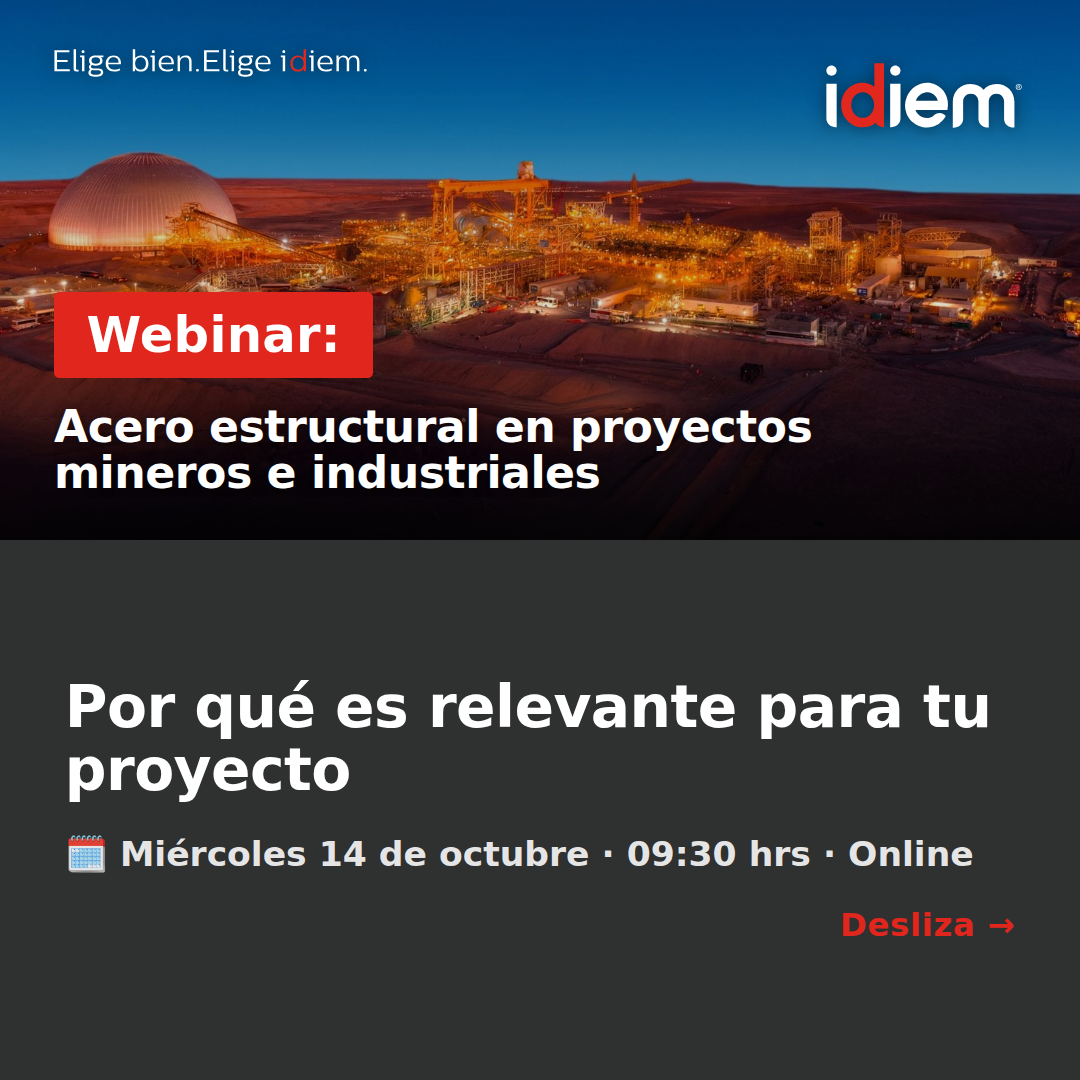
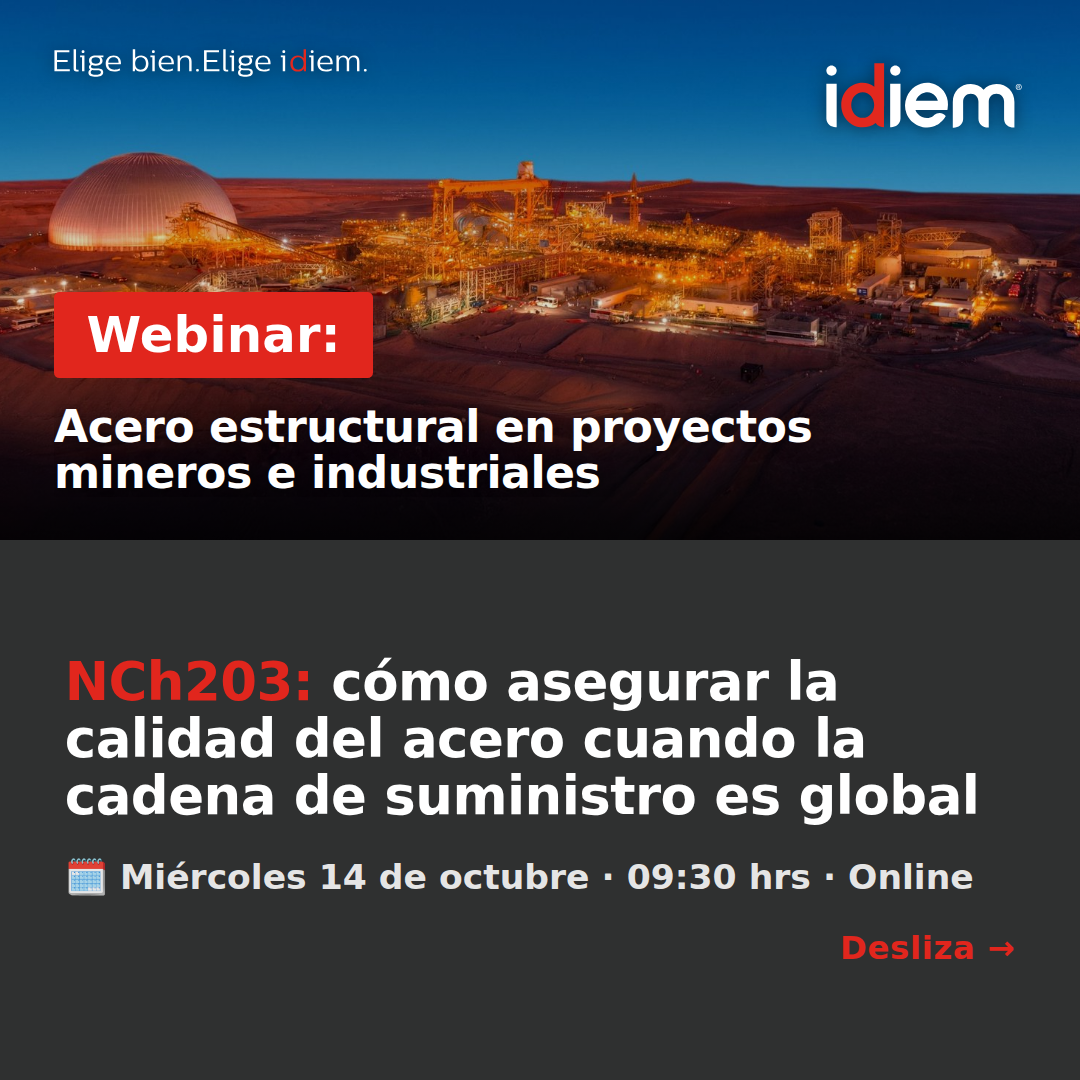
webinar: ajustes MKT a posts 2 y 4 + decisiones sobre la estrategia editorial
Posts 1, 3 y 5 (ya programados en LinkedIn) sin cambios de gráfica.
- Post 2 (carrusel): portada con llamado preciso ('NCh203: cómo asegurar la
  calidad del acero cuando la cadena de suministro es global'); cierre con el
  bloque de David en las mismas proporciones que el post 1 (CTA del ancho de
  la tarjeta de fecha).
- Post 4: variante 'manana' del banner ('⏰ ¡Mañana!', estilo post 5).
- Copies definitivos de MKT (posts 1-4) como fuente de verdad en
  webinars/acero_copies.json; notas y marcas de regeneración limpiadas.
- Decisiones MKT: límites de diversidad aprobados; posts de evento exentos
  del tope de 900 caracteres; memoria 09 = solo reglas/correcciones, el resto
  se deriva del consolidado mensual.

Claude-Session: https://claude.ai/code/session_01YXX97X1ubxabdERpL8XC8c

Changed region(s): [[0.0611, 0.6111, 0.9472, 0.8861]]

diff --git a/design_system/gen_webinar_workstation.py b/design_system/gen_webinar_workstation.py
@@ -108,6 +108,12 @@ COPY = {
   "#IDIEM #AceroEstructural #NCh203 #Minería #Industria #Webinar"),
 }
 
+# Copies definitivos editados por MKT en la workstation (30-09-2026): sobrescriben los defaults.
+_COPIES_FILE = ROOT / "design_system" / "webinars" / "acero_copies.json"
+if _COPIES_FILE.exists():
+    for _k, _v in json.loads(_COPIES_FILE.read_text(encoding="utf-8"))["copies"].items():
+        COPY[int(_k)] = _v
+
 # seq -> (fecha_label, objetivo, tipo, [slides], link(nombre,url), sched(date,time), imagen_traza, historial[(fecha,txt)])
 POSTS = {
  1: {"fecha": "1 oct", "obj": "Apertura de inscripciones", "tipo": "STATIC", "slides": ["inv"],
@@ -119,17 +125,19 @@ POSTS = {
  2: {"fecha": "5 oct", "obj": "Relevancia + temática", "tipo": "CARRUSEL", "slides": ["car1", "car2", "car3", "car4"],
      "sched": ("2026-10-05", "09:00"),
      "imagen": "Banner + láminas de contenido (portada · contexto NCh203 · temario · cierre)",
-     "hist": [(APPLIED, "Carrusel de 4 láminas creado para la serie del webinar."),
+     "hist": [(APPLIED, "Ajuste MKT: portada con llamado preciso (NCh203 y cadena de suministro global); cierre con David en las mismas proporciones que el post 1; copy editado por MKT."),
+              (APPLIED, "Carrusel de 4 láminas creado para la serie del webinar."),
               (APPLIED, "Contexto NCh203 (cadena de suministro global) + temario de 5 puntos."),
               (APPLIED, "Cierre con relator y CTA de inscripción.")]},
  3: {"fecha": "8 oct", "obj": "Recordatorio · trazabilidad", "tipo": "STATIC", "slides": ["inv"],
      "sched": ("2026-10-08", "09:00"),
      "imagen": "Banner de serie (provisto por MKT) · relator David Silva",
      "hist": [(APPLIED, "Recordatorio: misma gráfica de invitación, copy con foco en trazabilidad/brechas.")]},
- 4: {"fecha": "13 oct", "obj": "Víspera del evento", "tipo": "STATIC", "slides": ["inv"],
+ 4: {"fecha": "13 oct", "obj": "Víspera del evento", "tipo": "STATIC", "slides": ["manana"],
      "sched": ("2026-10-13", "09:00"),
      "imagen": "Banner de serie (provisto por MKT) · relator David Silva",
-     "hist": [(APPLIED, "Víspera: misma gráfica de invitación, copy '⏰ mañana' + últimas inscripciones.")]},
+     "hist": [(APPLIED, "Ajuste MKT: banner con '⏰ ¡Mañana!' en vez de 'Webinar:' (estilo post 5) + copy editado por MKT."),
+              (APPLIED, "Víspera: gráfica de invitación, copy '⏰ mañana' + últimas inscripciones.")]},
  5: {"fecha": "14 oct", "obj": "Día del evento · ingreso", "tipo": "STATIC", "slides": ["live"],
      "sched": ("2026-10-14", "08:00"),
      "imagen": "Banner · variante día del evento (ingreso por Zoom)",

diff --git a/design_system/gen_webinar_carousel.py b/design_system/gen_webinar_carousel.py
@@ -52,12 +52,13 @@ CONTENT_CSS = r"""
 
 /* portada / cierre reusan .wcard del banner; extras: */
 .ppanel{flex-direction:column;align-items:flex-start;justify-content:center;gap:3cqw;padding:0 6cqw}
-.pp-lead{font-size:5.4cqw;font-weight:800;line-height:1.08;letter-spacing:-.01em;color:#fff;max-width:86cqw}
+.pp-lead{font-size:4.9cqw;font-weight:800;line-height:1.08;letter-spacing:-.01em;color:#fff;max-width:86cqw}
+.pp-red{color:var(--red)}
 .pp-date{font-size:3.2cqw;font-weight:600;color:rgba(255,255,255,.9)}
 .pp-swipe{align-self:flex-end;font-size:3cqw;font-weight:800;color:var(--red);letter-spacing:.02em}
-.cierre-cta{display:flex;flex-direction:column;align-items:center;gap:2.6cqw}
-.cta-pill{background:var(--red);color:#fff;font-weight:800;font-size:3.5cqw;padding:2cqw 5cqw;border-radius:100px}
-.cta-note{font-size:2.7cqw;font-weight:600;color:rgba(255,255,255,.86);text-align:center;max-width:70cqw}
+.cierre-cta{flex:none;width:38cqw;display:flex;flex-direction:column;align-items:center;gap:2.6cqw}
+.cta-pill{white-space:nowrap;background:var(--red);color:#fff;font-weight:800;font-size:3.5cqw;padding:2cqw 5cqw;border-radius:100px}
+.cta-note{font-size:2.7cqw;font-weight:600;color:rgba(255,255,255,.86);text-align:center;line-height:1.35}
 """
 
 RELEVANCIA = (
@@ -96,7 +97,7 @@ def portada(s: dict) -> str:
     hora = (s["hora"] or "").strip()
     inner = (f'<div class="wcard">{_banner(s.get("foto_tema", ""), "Webinar:", s["titulo"])}'
              f'<div class="panel ppanel">'
-             f'<div class="pp-lead">Por qué es relevante para tu proyecto</div>'
+             f'<div class="pp-lead"><span class="pp-red">NCh203:</span> cómo asegurar la calidad del acero cuando la cadena de suministro es global</div>'
              f'<div class="pp-date">🗓 {dia} {fecha} · {hora} hrs · Online</div>'
              f'<div class="pp-swipe">Desliza →</div>'
              f'</div></div>')
@@ -144,7 +145,7 @@ def cierre(s: dict) -> str:
              f'</div>'
              f'<div class="cierre-cta">'
              f'<div class="cta-pill">📩 Inscríbete</div>'
-             f'<div class="cta-note">{dia} {fecha} · {hora} hrs<br>Link en la descripción</div>'
+             f'<div class="cta-note">{dia} {fecha}<br>{hora} hrs<br>Link en la descripción</div>'
              f'</div>'
              f'</div></div>')
     return _wrap(inner, "Webinar · cierre")

diff --git a/design_system/gen_webinar_card.py b/design_system/gen_webinar_card.py
@@ -99,7 +99,14 @@ def card(sesion: dict, variant: str = "inv") -> str:
     cred_line = f'<div class="cline">{cred}</div>' if cred else ""
     cargo_line = f'<div class="cline">{cargo}</div>' if cargo else ""
 
-    if variant == "live":
+    if variant == "manana":
+        pill = '<span class="wpill live">⏰ ¡Mañana!</span>'
+        datecard = f"""<div class="datecard">
+          <div class="drow"><img src="{IC_CAL}" alt=""><span>{dia}<br>{fecha}</span></div>
+          <div class="dhr"></div>
+          <div class="drow"><img src="{IC_CLK}" alt=""><span>{hora_txt}</span></div>
+        </div>"""
+    elif variant == "live":
         pill = '<span class="wpill live">🔴 ¡Webinar hoy!</span>'
         datecard = f"""<div class="datecard">
           <div class="drow"><img src="{IC_CAL}" alt=""><span>Hoy<br>{fecha}</span></div>

diff --git a/docs/10_ESTRATEGIA_EDITORIAL_Y_SESGOS.md b/docs/10_ESTRATEGIA_EDITORIAL_Y_SESGOS.md
@@ -112,6 +112,10 @@ Se elimina la contradicción anterior (110–170 palabras / 1–4 emojis vs 900 
 habitual **820–880**; emojis **1–2 por párrafo como máximo**. Vive solo en
 `config/editorial_diversity.json` → `length`.
 
+**Excepción (MKT, 30-09-2026):** los posts de evento (webinars: inscripción, recordatorio,
+día del evento) llevan URL larga y quedan **exentos del máximo de 900 caracteres**
+(contador de referencia 1300), procurando igual la mayor brevedad.
+
 ## 13. Tono
 
 Institucional, técnico, profesional, editorial y **comprensible para un público no
@@ -123,6 +127,10 @@ conocimiento técnico aporta valor antes de introducir lo comercial.**
 Una sola memoria rica: **el archivo mensual consolidado** (copies definitivos del mes).
 De él se derivan fingerprints, estadísticas, recent hooks, recent CTAs, temas
 recientes y QA. **No mantener memorias manuales paralelas que puedan divergir.**
+
+**División acordada (MKT, 30-09-2026):** `docs/09_EDITORIAL_MEMORY.md` guarda solo **reglas y
+correcciones del equipo**; hooks, CTAs, pain points, arquetipos y estadísticas recientes se
+**derivan del consolidado mensual**.
 
 ## 15. Flujo objetivo
 

diff --git a/CLAUDE.md b/CLAUDE.md
@@ -97,6 +97,8 @@ de sept 2026 — octubre tuvo CTA `contact` en 9/12 posts y ~4 arquetipos.
 - **Hook ≠ pain point**: registrarlos por separado.
 - Narrativa desde la necesidad del cliente; valor técnico antes que lo comercial.
 - **Longitud única: ≤ 900 caracteres (objetivo 820–880), máx. 1–2 emojis por párrafo.**
+  Excepción: posts de evento (webinars) llevan URL y quedan exentos del tope (ref. 1300).
+- Límites de diversidad de `editorial_diversity.json`: **aprobados por MKT** (30-09-2026).
 - Datos de fuentes: jerarquía células → reglas editoriales → brochures → Sales
   Intelligence → casos; clasificar `SAFE` / `VERIFY` / `INTERNAL` / `DO_NOT_PUBLISH`
   (`VERIFY` se valida antes; `DO_NOT_PUBLISH` nunca llega al copy).
